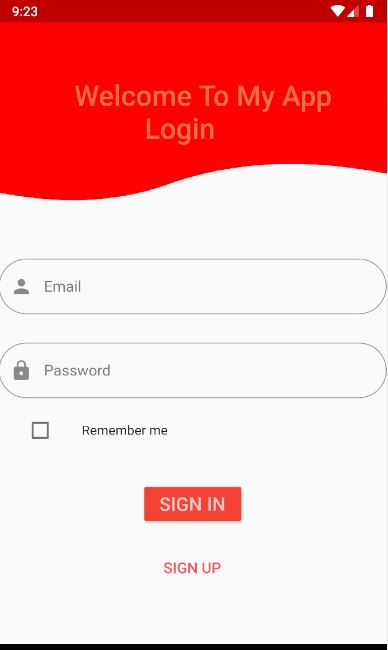
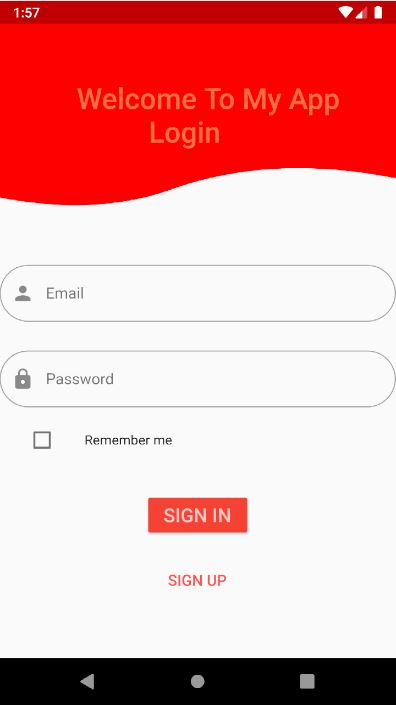
adding ss

diff --git a/lib/main.dart b/lib/main.dart
@@ -1,6 +1,7 @@
 // import 'package:ecommerce/src/pages/login_signup/login_page.dart';
 import 'package:flutter/material.dart';
 
+import 'src/pages/login_signup/login_page.dart';
 import 'src/pages/login_signup/login_page2.dart';
 
 void main() => runApp(MyApp());
@@ -15,11 +16,11 @@ class MyApp extends StatelessWidget {
         primarySwatch: Colors.blue,
       ),
       debugShowCheckedModeBanner: false,
-      // home: LoginPage(title: 'Login Page'),
+      home: LoginPage(title: 'Login Page'),
       // home: HomePage(),
       // home: FLutterCarousel(),
       // home: InstagramHomePage(),
-      home: LoginPage2(),
+      // home: LoginPage2(),
     );
   }
 }
